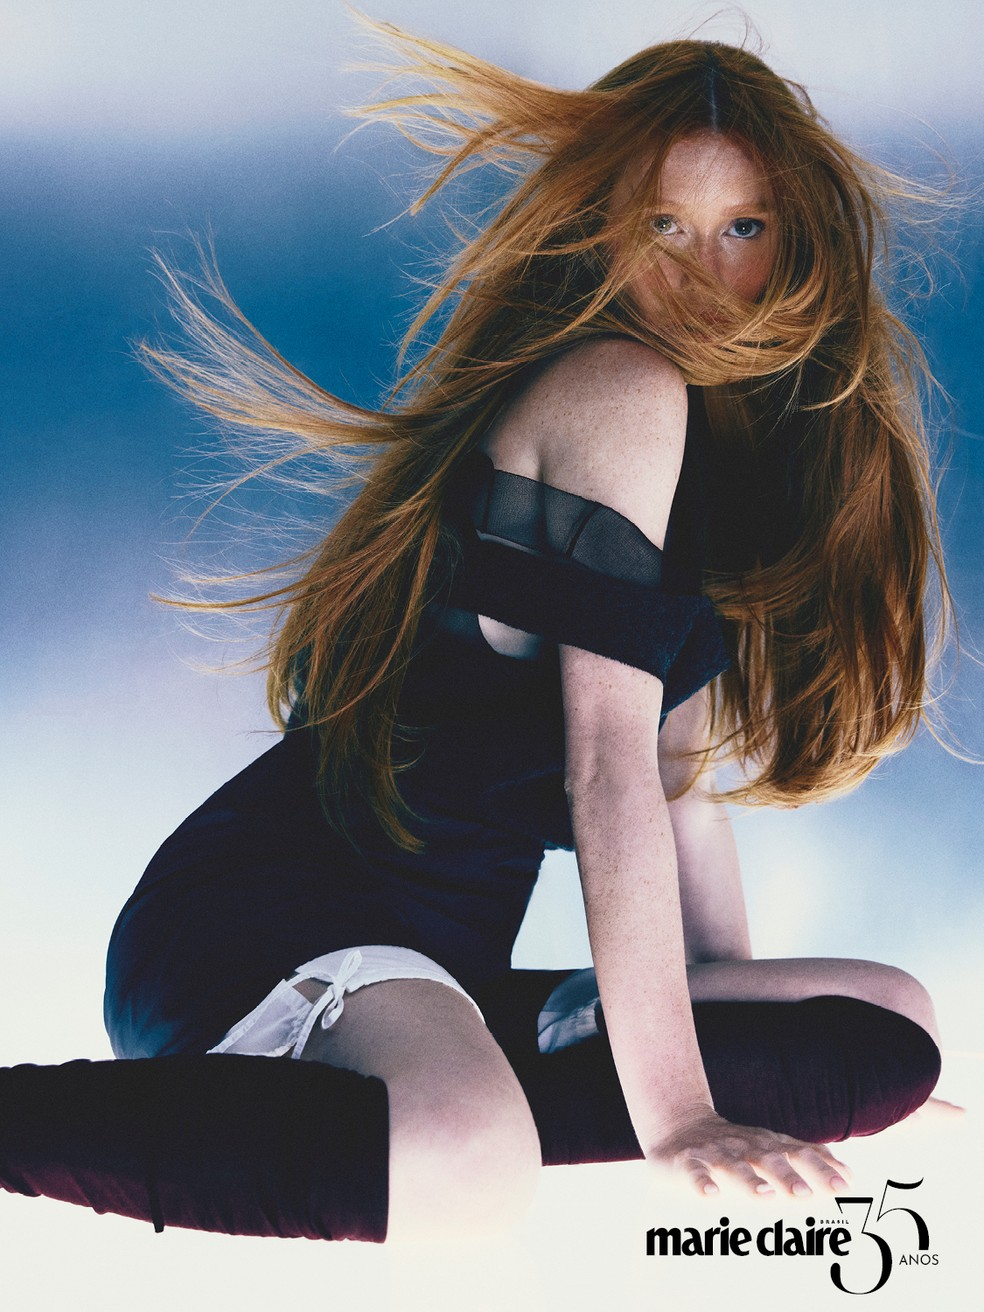
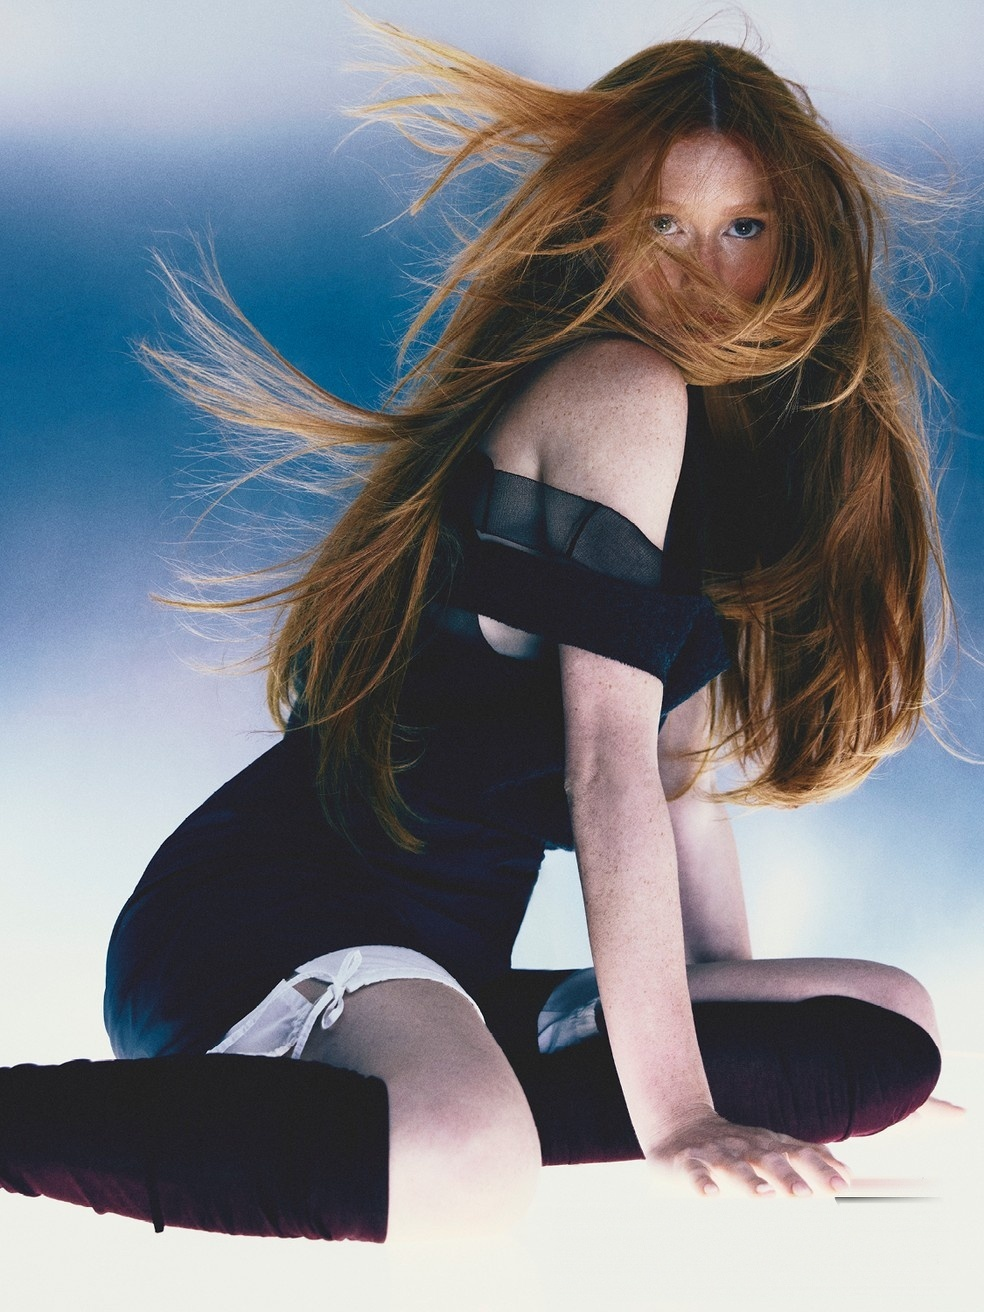
Prepare public portfolio repository

Changed region(s): [[0.6402, 0.875, 0.9451, 1.0]]

diff --git a/app/page.tsx b/app/page.tsx
@@ -132,7 +132,7 @@ export default function Home() {
             <h1>Thiago Biagi</h1>
             <div className="hero-details">
               <div><strong>Inside</strong><span>Celebrity styling</span><span>Editorial stories</span><span>Magazine covers</span></div>
-              <div><strong>Bookings</strong><a href="mailto:thiago.biagi@onyn.com.br">thiago.biagi@onyn.com.br</a><a href="https://www.instagram.com/thiagobiagi/" target="_blank" rel="noreferrer">Instagram @thiagobiagi ↗</a><a href="https://www.tiktok.com/@thiagobiagi" target="_blank" rel="noreferrer">TikTok @thiagobiagi ↗</a></div>
+              <div><strong>Bookings</strong><a href="mailto:thiago.biagi1@gmail.com">thiago.biagi1@gmail.com</a><a href="https://www.instagram.com/thiagobiagi/" target="_blank" rel="noreferrer">Instagram @thiagobiagi ↗</a><a href="https://www.tiktok.com/@thiagobiagi" target="_blank" rel="noreferrer">TikTok @thiagobiagi ↗</a></div>
             </div>
           </div>
         </div>
@@ -307,10 +307,10 @@ export default function Home() {
       <section className="contact" id="contact">
         <p className="eyebrow">Bookings / Contact</p>
         <div className="contact-row">
-          <a href="mailto:thiago.biagi@onyn.com.br">thiago.biagi@onyn.com.br ↗</a>
+          <a href="mailto:thiago.biagi1@gmail.com">thiago.biagi1@gmail.com ↗</a>
           <a href="https://www.instagram.com/thiagobiagi/" target="_blank" rel="noreferrer">@thiagobiagi ↗</a>
           <a href="https://www.tiktok.com/@thiagobiagi" target="_blank" rel="noreferrer">TikTok @thiagobiagi ↗</a>
-          <p>Beltrame Management<br />São Paulo, Brasil</p>
+          <a href="https://www.beltramemgmt.com/" target="_blank" rel="noreferrer">Beltrame Management ↗<br />São Paulo, Brasil</a>
         </div>
       </section>
 
